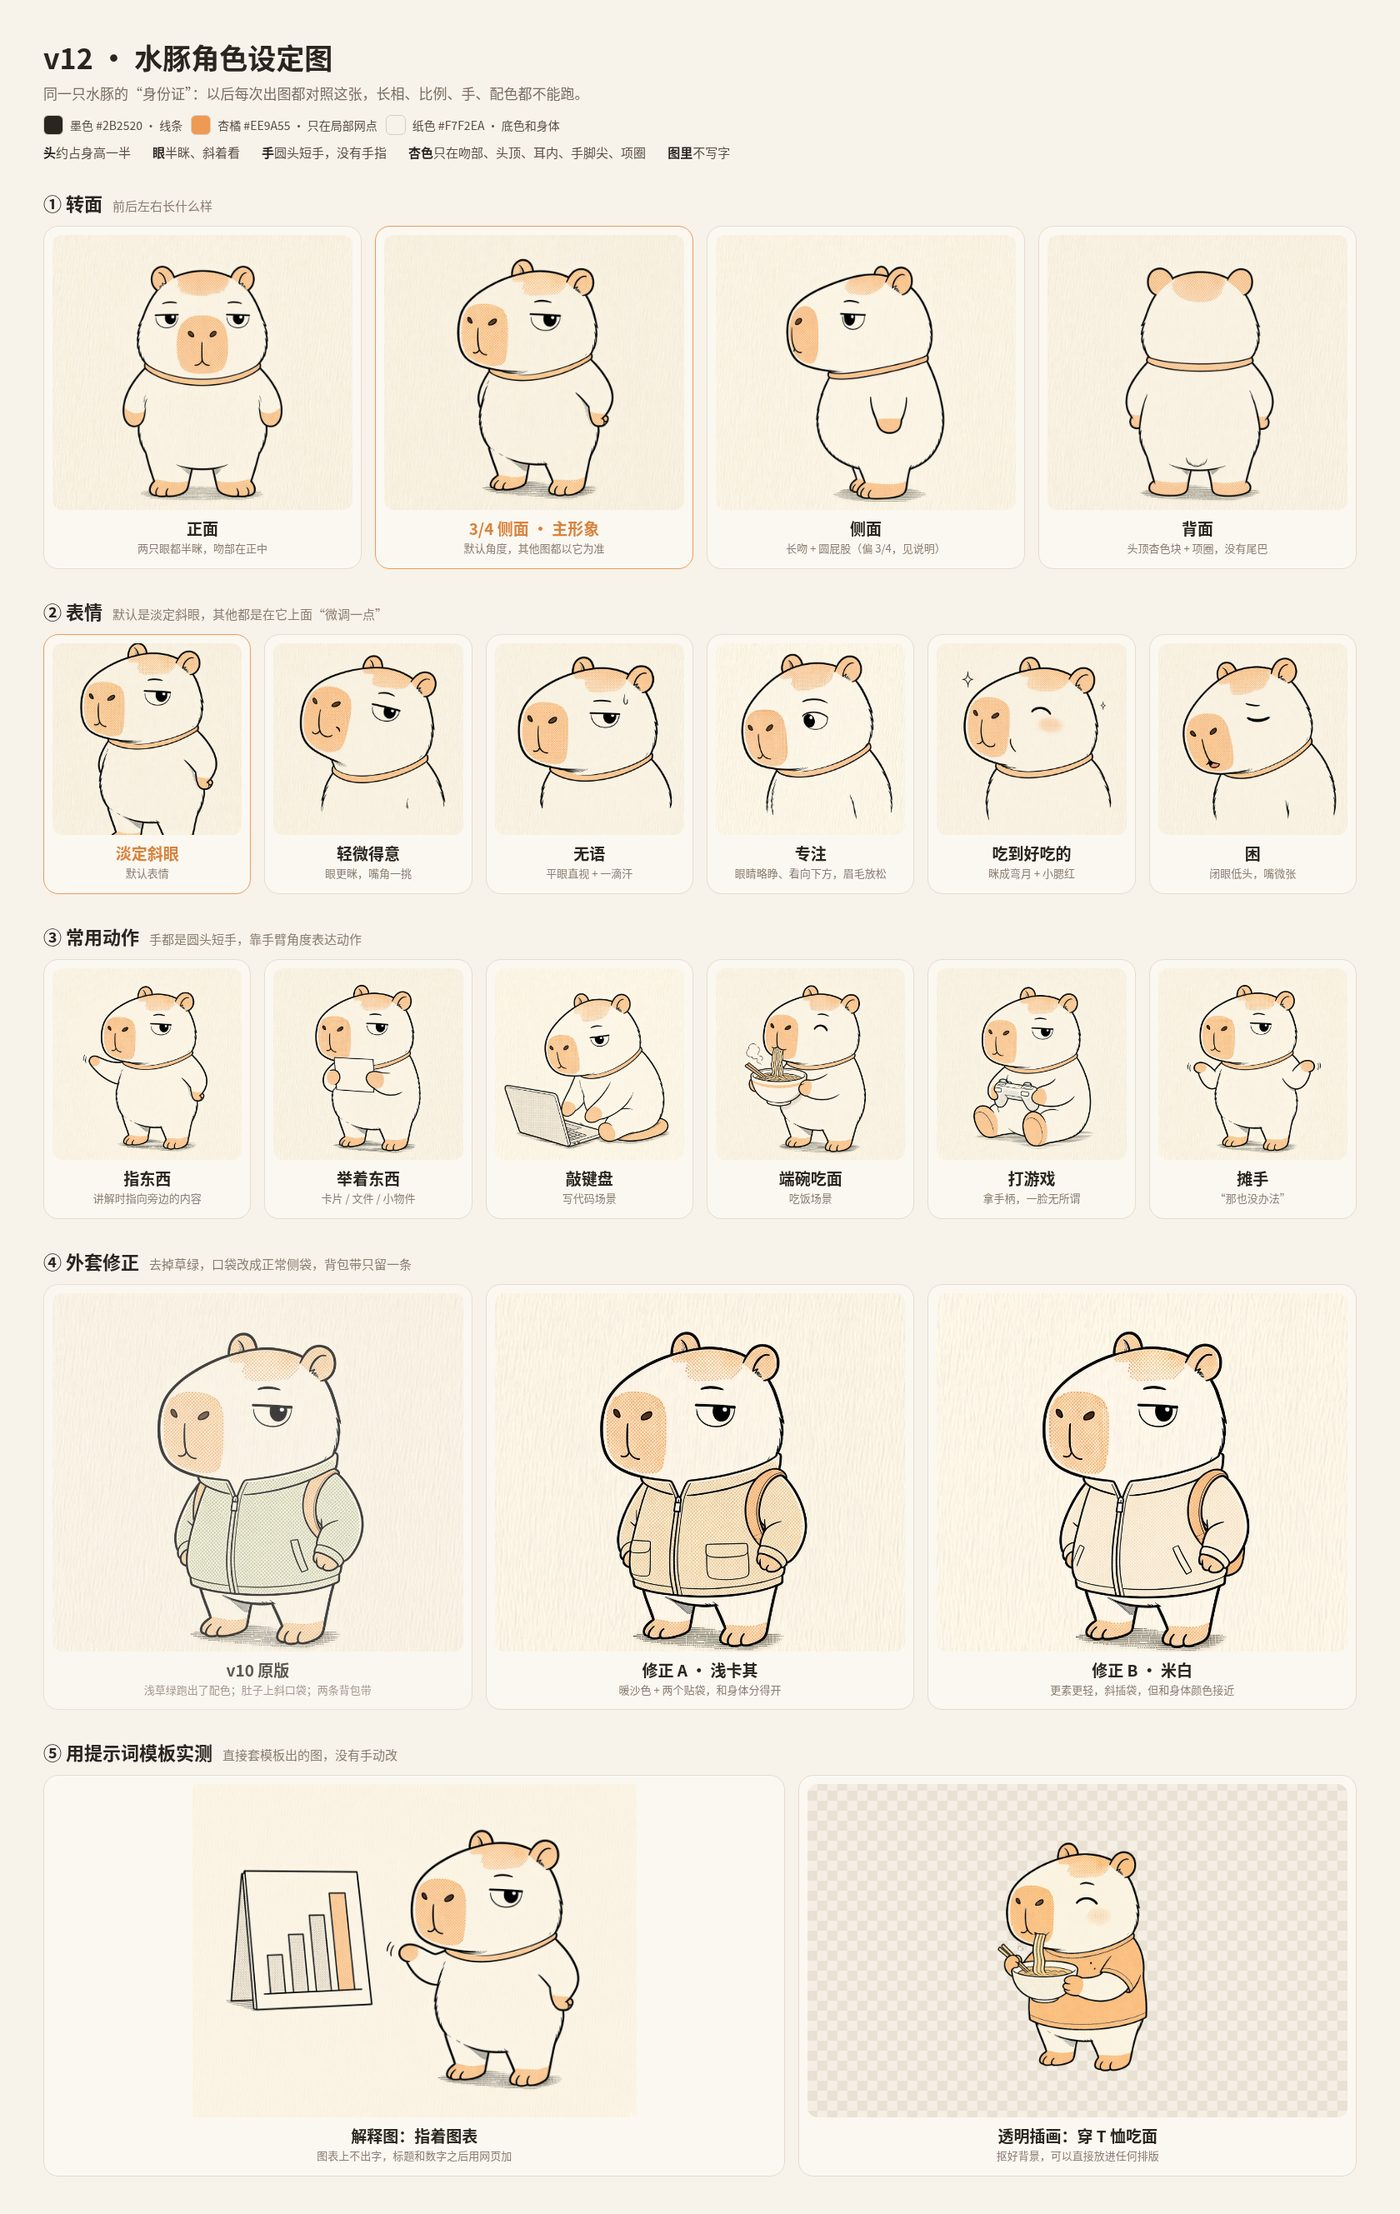
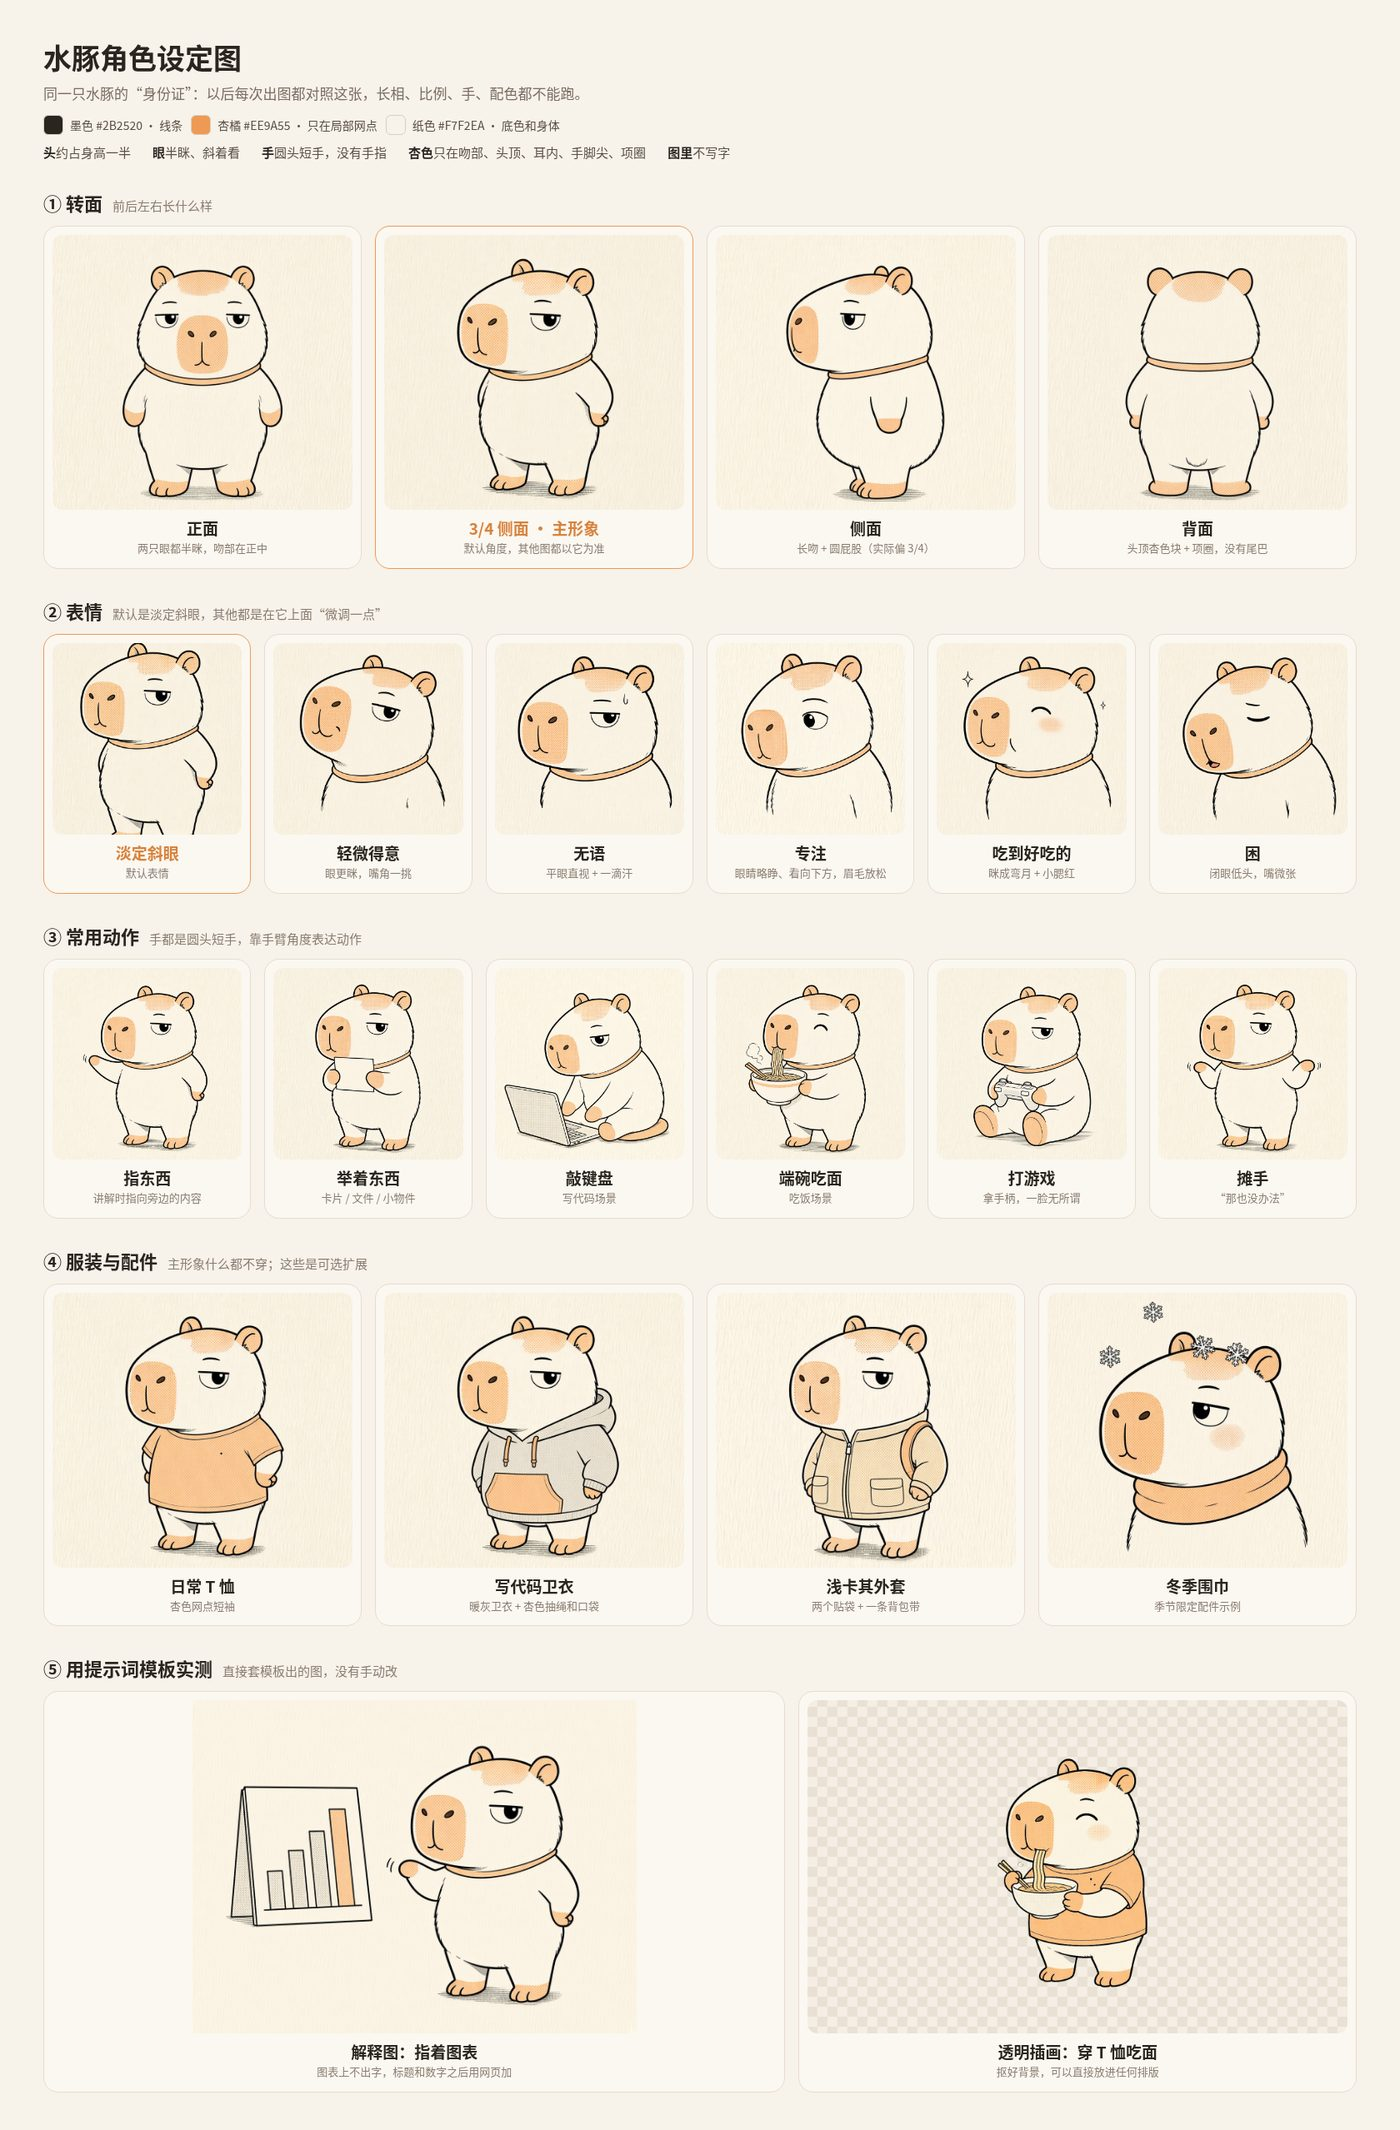
docs: rewrite README with showcase images; clean character sheet labels

diff --git a/README.md b/README.md
@@ -1,7 +1,116 @@
-# stoneo-visual
+<p align="center">
+  <img src="./assets/readme/banner.jpg" width="100%" alt="stoneo-visual：一只沉稳、斜眼看人的水豚">
+</p>
 
-一只沉稳、斜眼看人的水豚，配一套克制的漫画墨线 + 杏色网点风格。用于生成带这只水豚的解释图、透明插画、头像和季节/节日限定图。
+<p align="center"><b>一只沉稳、斜眼看人的水豚，用克制的漫画墨线和杏色网点，替你画解释图、插画和头像。</b></p>
 
-- 入口：`SKILL.md`
-- 角色总览：`assets/refs/character-sheet.jpg`
-- 结构参照 [oil-visual](https://github.com/oil-oil/oil-visual)；`scripts/cutout.py` 改编自 oil-visual（MIT，见 `scripts/LICENSE-oil-visual`）。
+stoneo-visual 是一个给 AI Agent 用的出图 Skill。它把一只固定的水豚角色、一套固定的画法和一条固定的出图流程打包在一起：每次都以参考图为底让宿主的生图工具做 edit，所以不管画什么场景，出来的都是同一只水豚、同一种味道。图里不生成任何文字，标题和标签都用 HTML 后加，不会有错字。
+
+## 效果展示
+
+### 解释图
+
+<p align="center">
+  <img src="./assets/readme/demo-explainer-gaming.jpg" width="49%" alt="解释图：穿卫衣的水豚坐在电视前拿着手柄打游戏，配有中文标题和标签">
+  <img src="./assets/readme/demo-explainer-chart.jpg" width="49%" alt="解释图：水豚用圆头短手指向一张没有文字的柱状图">
+</p>
+
+左图：穿卫衣打游戏，标题和两个标签是用 HTML 叠上去的。右图：用短圆手指着一张柱状图，图表上没有字，方便你之后加上自己的数据。
+
+### 透明插画与头像
+
+<p align="center">
+  <img src="./assets/readme/demo-transparent-noodles.png" width="36%" alt="透明插画：穿 T 恤的水豚端碗吃面，透明背景">
+  &nbsp;&nbsp;
+  <img src="./assets/readme/demo-avatar-winter.jpg" width="40%" alt="冬季限定头像：戴杏色围巾的水豚，头顶落了几片雪花，淡定地往上斜眼">
+</p>
+
+左图：透明背景的吃面插画，可以直接放进文章、卡片或幻灯片。右图：冬季限定头像，戴着围巾，对头上的雪淡定地斜眼。
+
+## 能做什么
+
+- **解释图**：水豚在一个完整场景里演示一件事（比较、流程、状态），画面留出空白，之后用 HTML 加标题和标签。
+- **透明插画**：只画水豚和必要的道具，绿幕出图后自动抠成透明 PNG，拿去任何排版里用。
+- **头像 / 季节节日限定**：方形构图，圆形裁切也不会切到耳朵，并会检查 64px 和 32px 下还认不认得出来。主形象换上围巾、草帽等配件，就是季节和节日版本。
+
+## 怎么用
+
+### 安装
+
+把整个 `stoneo-visual` 文件夹放进你所用 Agent 的 skills 目录（不同宿主的位置不一样，以宿主文档为准），然后让宿主重新加载 Skill。
+
+这是私有仓库，需要有访问权限才能克隆：
+
+```bash
+git clone git@github.com:sfw003/stoneo-visual.git
+# 或
+git clone https://github.com/sfw003/stoneo-visual.git
+```
+
+### 直接这样说
+
+```text
+用 stoneo-visual 画一张解释图：水豚指着一张上升的柱状图，标题写“这个月的进度”。
+```
+
+```text
+用 stoneo-visual 画一个透明背景的插画：水豚戴着耳机敲键盘，用来放在文章开头。
+```
+
+```text
+用 stoneo-visual 给我出一个春节限定头像，给我 3 个方案对比一下。
+```
+
+默认会给 3 个方案，做成一张对比板：每个方案一行，包括原图、一句讲解（用了哪些元素、好在哪、代价是什么），以及放进实际用途里的效果。头像会给出圆形裁切、64px 和 32px 预览，以及浅色、深色界面下的样子；配图会放进文章和卡片里演示。推荐的方案会单独标出来。你选定后，会单独导出 1024×1024 的高清 PNG；解释图按原比例导出。
+
+完整规则、提示词模板和验收清单都在 [`SKILL.md`](./SKILL.md) 里。
+
+## 角色和风格
+
+<p align="center">
+  <img src="./assets/readme/character-sheet.jpg" width="100%" alt="水豚角色设定图：转面、表情、常用动作、服装与配件、模板实测">
+</p>
+
+- **性格**：沉稳，带一点冷幽默。默认表情是半眯着眼、斜着看人。
+- **外形**：圆胖的纸白身体，大圆角方头，杏色网点的钝吻部。手是像星之卡比那样的圆头短手，没有手指。
+- **主形象什么都不穿**。可选的服装有 T 恤、写代码卫衣和浅卡其外套；配件有耳机、头顶小橘子和冬季围巾。
+- **风格**：大面积留白，墨线干净有力，用圆形网点代替渐变，杏色只用在局部。
+
+| 颜色 | Hex | 用在哪里 |
+|---|---|---|
+| 墨色 | `#2B2520` | 所有线条 |
+| 杏橘 | `#EE9A55` | 局部网点：吻部、头顶、耳内、手脚尖、项圈 |
+| 纸色 | `#F7F2EA` | 背景和身体 |
+
+## 目录结构
+
+```text
+stoneo-visual/
+├── SKILL.md                 # 入口：角色、风格、流程、文件索引
+├── references/              # 提示词模板、参考图选择、验收与常见问题、
+│                            # 输出规范、季节/节日限定、HTML 加字、完整示例
+├── assets/
+│   ├── refs/                # 出图用的参考图（主形象母版、转面、表情、动作、服装、配件）
+│   ├── templates/           # 方案对比板、解释图加标签的 HTML 模板
+│   └── readme/              # 本页配图
+├── scripts/                 # cutout.py 抠图、avatar_preview.py 头像检查、render_board.py 渲染
+└── agents/openai.yaml
+```
+
+`workbench/` 是本地的过程文件目录，已经被 `.gitignore` 忽略，不会进仓库。
+
+## 已知局限
+
+- **纯侧面画不出来**：模型总会画成偏 3/4 的角度。
+- **「专注」表情**必须带上对应的参考图，只写文字描述会画回默认的半眯眼，或者变成瞪人。
+- **手里拿东西时容易长出手指**：必须加短圆手参考图。事后局部修改往往修不掉，只能重新出图。
+- **32px 头像**基本看不清斜眼。64px 没问题。
+- **季节/节日例子大多没实测**：目前只有冬季实际出过图，其余的例子还没验证。春节容易被自动加上红色和"福"字。
+- **小橘子、耳机、背包带、衣服颜色**偶尔会跑偏，修正写法见 `references/troubleshooting.md`。
+- **依赖宿主能力**：需要宿主有生图（能以参考图做 edit）和读图能力。脚本需要 Python 3、Pillow 和 Chrome/Chromium。
+
+## 致谢和许可
+
+- 结构和写法参考了 [oil-visual](https://github.com/oil-oil/oil-visual)，感谢原作者。
+- `scripts/cutout.py` 改编自 oil-visual 的同名脚本，遵守其 MIT 许可，原许可证见 [`scripts/LICENSE-oil-visual`](./scripts/LICENSE-oil-visual)。
+- 本仓库其余内容（角色形象、参考图、文档）**暂未开源，保留所有权利**。

diff --git a/references/reference-images.md b/references/reference-images.md
@@ -22,7 +22,7 @@
 | `acc-headphones.jpg` | 戴耳机 | 听歌 / 专注写代码 / 游戏（注意：远侧耳罩被挡住，提示词要写 BOTH ear cups visible） |
 | `acc-mandarin.jpg` | 头顶小橘子 | 幽默、吃东西场景 |
 | `avatar-winter-snow-scarf.jpg` | 冬季头像：围巾 + 头顶落雪 | 头像模式的构图范本；冬季 / 节日限定图 |
-| `character-sheet.jpg` | 整张角色设定板（转面、表情、动作、外套） | **给人看 / 给 agent 读的总览**，不要放进 reference_image_paths（拼图会被模型当成要画的内容） |
+| `character-sheet.jpg` | 整张角色设定板（转面、表情、动作、服装与配件、模板实测） | **给人看 / 给 agent 读的总览**，不要放进 reference_image_paths（拼图会被模型当成要画的内容） |
 
 ## 怎么选（最多 2–3 张）
 

diff --git a/SKILL.md b/SKILL.md
@@ -18,7 +18,7 @@ description: "用一只沉稳、半眯眼斜着看人的水豚角色，以克制
 - **主形象不穿戴任何东西**。服装、配件是可选扩展：
   - 服装：日常 T 恤、写代码卫衣（暖灰 + 杏色抽绳和口袋）、浅卡其外套（#E6D3B3，两个贴袋，一条背包带）。
   - 配件：耳机、头顶小橘子、冬季围巾（以及季节限定配件，见 `references/seasonal.md`）。
-- 总览：`assets/refs/character-sheet.jpg`（转面、表情、动作、外套）。只给人或 agent 看，不要传给 GenerateImage。
+- 总览：`assets/refs/character-sheet.jpg`（转面、表情、动作、服装与配件、模板实测）。只给人或 agent 看，不要传给 GenerateImage。
 
 ## 2. 风格规则与配色
 
